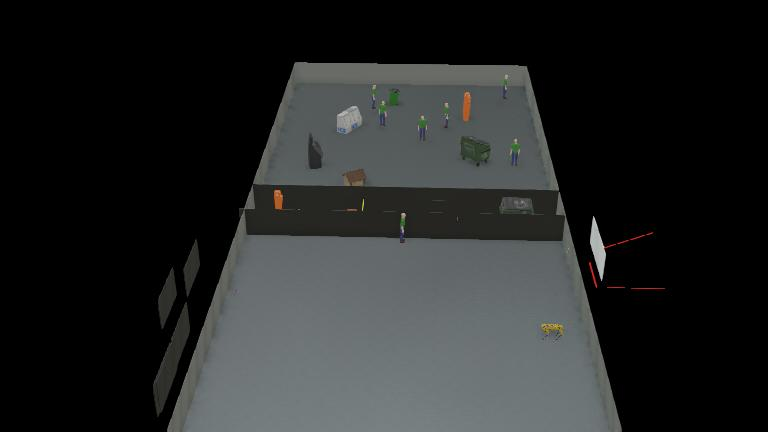
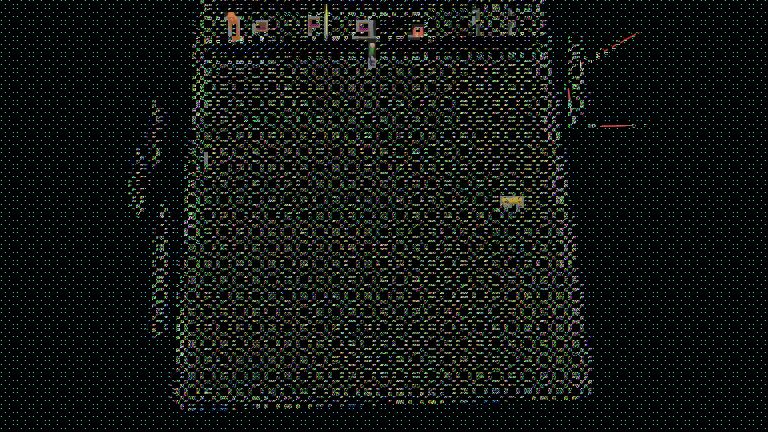
adding all the rooms we made a while back

diff --git a/launch/spot_launch.py b/launch/spot_launch.py
@@ -93,8 +93,15 @@ def generate_launch_description():
 
     webots = WebotsLauncher(
         # world=PathJoinSubstitution([package_dir, "worlds", "spot_test_room_no_obstacale.wbt"])
-         world=PathJoinSubstitution([package_dir, "worlds", "spot_test_room_one_static_obstacale.wbt"])
+        #world=PathJoinSubstitution([package_dir, "worlds", "spot_test_room_one_static_obstacale.wbt"])
+
         #world=PathJoinSubstitution([package_dir, "worlds", "spot_test_room_one_dynamic_obstacale.wbt"])
+        #world=PathJoinSubstitution([package_dir, "worlds", "spot_test_big_room_no_obstacale.wbt"])
+        
+        
+        #world=PathJoinSubstitution([package_dir, "worlds", "spot_test_big_room_one_static_obstacale.wbt"])
+        #world=PathJoinSubstitution([package_dir, "worlds", "spot_test_big_room_one_dynamic_obstacale.wbt"])
+        world=PathJoinSubstitution([package_dir, "worlds", "spot_test_big_room_multiple_dynamic_obstacale_2 .wbt"])
     )
     ros2_supervisor = Ros2SupervisorLauncher()
 
